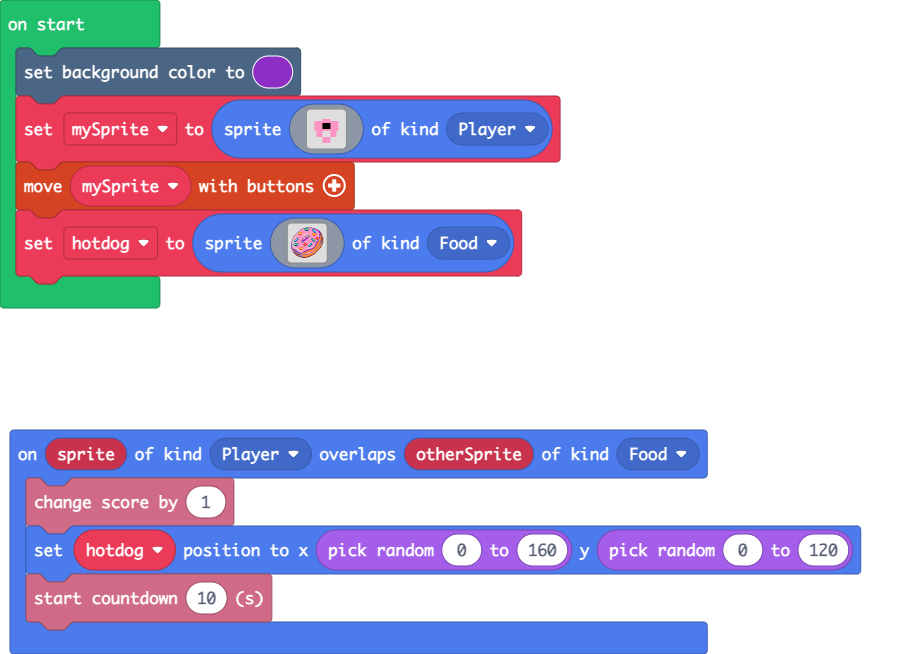
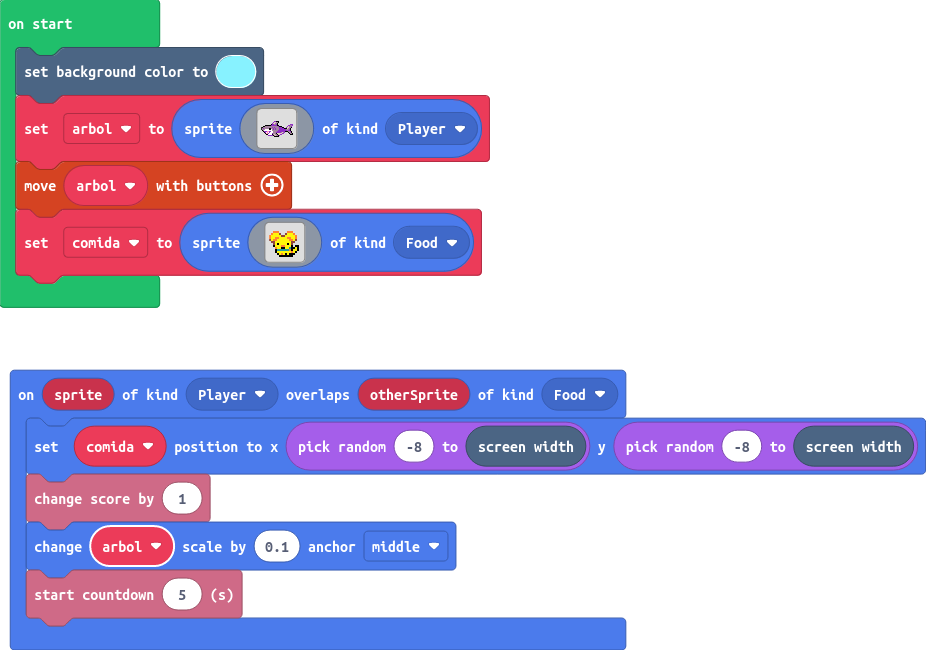
Update pxt.json, main.blocks, main.ts, images.g.jres, images.g.ts

diff --git a/images.g.ts b/images.g.ts
@@ -3,115 +3,19 @@ namespace myImages {
 
     helpers._registerFactory("image", function(name: string) {
         switch(helpers.stringTrim(name)) {
-            case "image1":return img`
-. . . . . . . . . . . . . . . . 
-. . . . . . . . . . . . . . . . 
-. . . . . . . . . . . . . . . . 
-. . . . . . 3 3 3 3 . . . . . . 
-. . 3 3 3 3 3 3 3 3 3 3 3 3 . . 
-. . 3 3 3 3 f f f f 3 3 3 3 . . 
-. . 3 3 3 3 f f f f 3 3 3 3 . . 
-. . 3 3 3 3 f f f f 3 3 3 3 . . 
-. . 3 3 3 3 3 3 3 3 3 3 3 3 . . 
-. . . 3 3 3 . . . . 3 3 3 . . . 
-. . . 3 3 3 . . . . 3 3 3 . . . 
-. . . 3 3 3 . . . . 3 3 3 . . . 
-. . . . . . 3 3 3 3 . . . . . . 
-. . . . . . 3 3 3 3 . . . . . . 
-. . . . . . 3 3 3 3 . . . . . . 
-. . . . . . . . . . . . . . . . 
-`;
-            case "image2":return img`
-..............bbbbbbb...........
-...........bb66663333baa........
-.........bb3367776333663aa......
-........b33333888333389633aa....
-.......b3333333333333389633aa...
-......b34443333333333338633bae..
-.....b3455433333333334443333ae..
-....b33322333dddd3333455233daee.
-...b3d333333dd3bbbb33322333dabe.
-..b3d333333d3bb33bb33333333da4e.
-..bd33333333b33aab3333333223a4ee
-.b3d3663333b33aab33366332442b4ee
-.bd3b983333a3aa3333387633ee3b4ee
-.bd6983333baaa333333387633bb4bee
-b3d6833333bba333333333863ba44ebe
-bdd3333333bb3333333333333a44bebe
-add666633333322333366333ba44bbbe
-ad67776333332442336983d3a444b4e.
-add888b333333ee3369833d3a44b44e.
-add333333333333336833d3a444b4e..
-a3dd3333344433333dddd3a444b44e..
-ab33ddd325543333dd33aa444b44e...
-.eabb3dd32233333baaa4444b44e....
-.ebabb3d333d33baa444443b44e.....
-..ebaab3ddd3aaa4444433b44e......
-..eebbaab33a44444333b444e.......
-...eeebbaab444b333b4444e........
-....ebeeebbbbbbbb4444ee.........
-.....eebbbb44444444ee...........
-.......eeebbb444eee.............
-..........eeeeee................
-................................
-`;
-            case "image3":return img`
-. . . . . . . . . . . . . . . . 
-. . . . . . . . . . . . . . . . 
-. . . . . . . . . . . . . . . . 
-. . . . . . 3 3 3 3 . . . . . . 
-. . 3 3 3 3 3 3 3 3 3 3 3 3 . . 
-. . 3 3 3 3 f f f f 3 3 3 3 . . 
-. . 3 3 3 3 f f f f 3 3 3 3 . . 
-. . 3 3 3 3 f f f f 3 3 3 3 . . 
-. . 3 3 3 3 3 3 3 3 3 3 3 3 . . 
-. . . 3 3 3 . . . . 3 3 3 . . . 
-. . . 3 3 3 . . . . 3 3 3 . . . 
-. . . 3 3 3 . . . . 3 3 3 . . . 
-. . . . . . 3 3 3 3 . . . . . . 
-. . . . . . 3 3 3 3 . . . . . . 
-. . . . . . 3 3 3 3 . . . . . . 
-. . . . . . . . . . . . . . . . 
-`;
-            case "image4":return img`
-..............bbbbbbb...........
-...........bb66663333baa........
-.........bb3367776333663aa......
-........b33333888333389633aa....
-.......b3333333333333389633aa...
-......b34443333333333338633bae..
-.....b3455433333333334443333ae..
-....b33322333dddd3333455233daee.
-...b3d333333dd3bbbb33322333dabe.
-..b3d333333d3bb33bb33333333da4e.
-..bd33333333b33aab3333333223a4ee
-.b3d3663333b33aab33366332442b4ee
-.bd3b983333a3aa3333387633ee3b4ee
-.bd6983333baaa333333387633bb4bee
-b3d6833333bba333333333863ba44ebe
-bdd3333333bb3333333333333a44bebe
-add666633333322333366333ba44bbbe
-ad67776333332442336983d3a444b4e.
-add888b333333ee3369833d3a44b44e.
-add333333333333336833d3a444b4e..
-a3dd3333344433333dddd3a444b44e..
-ab33ddd325543333dd33aa444b44e...
-.eabb3dd32233333baaa4444b44e....
-.ebabb3d333d33baa444443b44e.....
-..ebaab3ddd3aaa4444433b44e......
-..eebbaab33a44444333b444e.......
-...eeebbaab444b333b4444e........
-....ebeeebbbbbbbb4444ee.........
-.....eebbbb44444444ee...........
-.......eeebbb444eee.............
-..........eeeeee................
-................................
-`;
+
         }
         return null;
     })
 
     helpers._registerFactory("animation", function(name: string) {
+        switch(helpers.stringTrim(name)) {
+
+        }
+        return null;
+    })
+
+    helpers._registerFactory("song", function(name: string) {
         switch(helpers.stringTrim(name)) {
 
         }

diff --git a/main.ts b/main.ts
@@ -1,60 +1,44 @@
 sprites.onOverlap(SpriteKind.Player, SpriteKind.Food, function (sprite, otherSprite) {
+    comida.setPosition(randint(-8, scene.screenWidth()), randint(-8, scene.screenWidth()))
     info.changeScoreBy(1)
-    hotdog.setPosition(randint(0, 160), randint(0, 120))
-    info.startCountdown(10)
+    arbol.changeScale(0.1, ScaleAnchor.Middle)
+    info.startCountdown(5)
 })
-let hotdog: Sprite = null
-scene.setBackgroundColor(10)
-let mySprite = sprites.create(img`
-    . . . . . . . . . . . . . . . . 
-    . . . . . . . . . . . . . . . . 
-    . . . . . . . . . . . . . . . . 
-    . . . . . . 3 3 3 3 . . . . . . 
-    . . 3 3 3 3 3 3 3 3 3 3 3 3 . . 
-    . . 3 3 3 3 f f f f 3 3 3 3 . . 
-    . . 3 3 3 3 f f f f 3 3 3 3 . . 
-    . . 3 3 3 3 f f f f 3 3 3 3 . . 
-    . . 3 3 3 3 3 3 3 3 3 3 3 3 . . 
-    . . . 3 3 3 . . . . 3 3 3 . . . 
-    . . . 3 3 3 . . . . 3 3 3 . . . 
-    . . . 3 3 3 . . . . 3 3 3 . . . 
-    . . . . . . 3 3 3 3 . . . . . . 
-    . . . . . . 3 3 3 3 . . . . . . 
-    . . . . . . 3 3 3 3 . . . . . . 
-    . . . . . . . . . . . . . . . . 
+let comida: Sprite = null
+let arbol: Sprite = null
+scene.setBackgroundColor(9)
+arbol = sprites.create(img`
+    .............aafff..............
+    ............addbbf..............
+    ...........addbbf...............
+    ..........faabbaf............aaa
+    ....ffffffaaaaaaff.........aabba
+    ..ffbbbbbbbbbbbbbafff.....adbba.
+    ffbbbbbbbbbababbbbaaaff..addbbf.
+    fbabbbbbffbbababbbaaaaafffdbbf..
+    fbbb1111ff1bababbbaaaaaaabbbaf..
+    .fb11111111bbbbbbaaaaaaaaabaaf..
+    ..faaa33aa11bbbbaaaaaaaafffbbaf.
+    ...fa131a111bbbaaaaabdba...fbbf.
+    ....f33a111abbbfdddddaa.....fbbf
+    .....ff1111fbdbbfddaa........fff
+    .......aaaaafbdbbfa.............
+    .............fffff..............
     `, SpriteKind.Player)
-controller.moveSprite(mySprite)
-hotdog = sprites.create(img`
-    ..............bbbbbbb...........
-    ...........bb66663333baa........
-    .........bb3367776333663aa......
-    ........b33333888333389633aa....
-    .......b3333333333333389633aa...
-    ......b34443333333333338633bae..
-    .....b3455433333333334443333ae..
-    ....b33322333dddd3333455233daee.
-    ...b3d333333dd3bbbb33322333dabe.
-    ..b3d333333d3bb33bb33333333da4e.
-    ..bd33333333b33aab3333333223a4ee
-    .b3d3663333b33aab33366332442b4ee
-    .bd3b983333a3aa3333387633ee3b4ee
-    .bd6983333baaa333333387633bb4bee
-    b3d6833333bba333333333863ba44ebe
-    bdd3333333bb3333333333333a44bebe
-    add666633333322333366333ba44bbbe
-    ad67776333332442336983d3a444b4e.
-    add888b333333ee3369833d3a44b44e.
-    add333333333333336833d3a444b4e..
-    a3dd3333344433333dddd3a444b44e..
-    ab33ddd325543333dd33aa444b44e...
-    .eabb3dd32233333baaa4444b44e....
-    .ebabb3d333d33baa444443b44e.....
-    ..ebaab3ddd3aaa4444433b44e......
-    ..eebbaab33a44444333b444e.......
-    ...eeebbaab444b333b4444e........
-    ....ebeeebbbbbbbb4444ee.........
-    .....eebbbb44444444ee...........
-    .......eeebbb444eee.............
-    ..........eeeeee................
-    ................................
+controller.moveSprite(arbol)
+comida = sprites.create(img`
+    . . . . . . . . . . . . . . . . 
+    . . 4 4 4 . . . . 4 4 4 . . . . 
+    . 4 5 5 5 e . . e 5 5 5 4 . . . 
+    4 5 5 5 5 5 e e 5 5 5 5 5 4 . . 
+    4 5 5 4 4 5 5 5 5 4 4 5 5 4 . . 
+    e 5 4 4 5 5 5 5 5 5 4 4 5 e . . 
+    . e e 5 5 5 5 5 5 5 5 e e . . . 
+    . . e 5 f 5 5 5 5 f 5 e . . . . 
+    . . f 5 5 5 4 4 5 5 5 f . f f . 
+    . . . 4 5 5 f f 5 5 6 f f 5 f . 
+    . . . f 6 6 6 6 6 6 4 f 5 5 f . 
+    . . . f 5 5 5 5 5 5 5 4 5 f . . 
+    . . . . f 5 4 5 f 5 f f f . . . 
+    . . . . . f f f f f f f . . . . 
     `, SpriteKind.Food)
